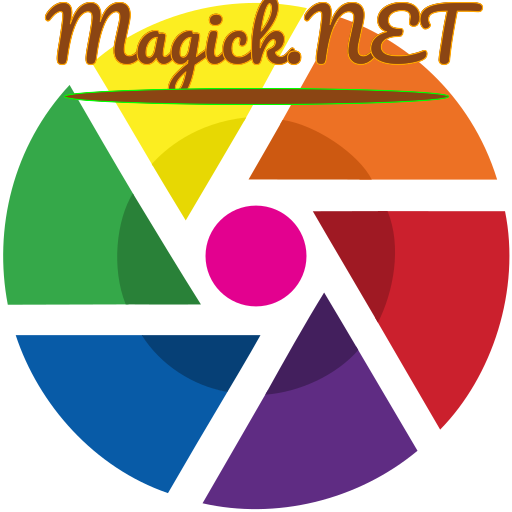
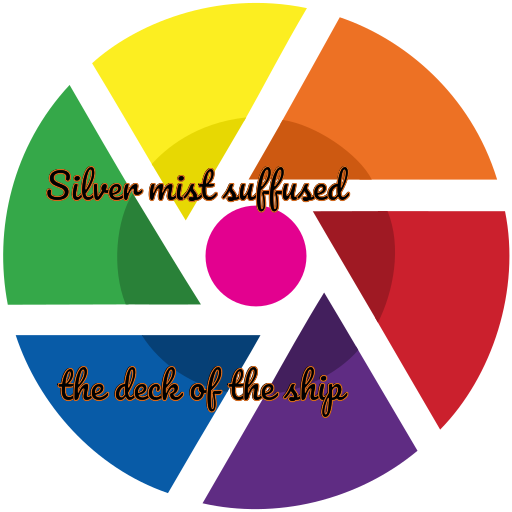
magick happens

Changed region(s): [[0.0938, 0.0, 0.9375, 0.2188], [0.0938, 0.3125, 0.6875, 0.4375], [0.0938, 0.7188, 0.6875, 0.8125]]

diff --git a/MagickNet.Sample/Controllers/PosterController.cs b/MagickNet.Sample/Controllers/PosterController.cs
@@ -1,0 +1,129 @@
+using System;
+using System.Collections.Generic;
+using System.IO;
+using System.Linq;
+using System.Threading.Tasks;
+using ImageMagick;
+using MagickNet.Sample.Models;
+using Microsoft.AspNetCore.Hosting;
+using Microsoft.AspNetCore.Mvc;
+
+// For more information on enabling MVC for empty projects, visit https://go.microsoft.com/fwlink/?LinkID=397860
+
+namespace MagickNet.Sample.Controllers {
+    public class PosterController : Controller {
+        string webrootPath;
+        string contentRootPath;
+        string imagePath;
+        // GET: /<controller>/
+        public PosterController(IHostingEnvironment hostingEnvironment)
+        {
+            webrootPath = hostingEnvironment.WebRootPath;
+            contentRootPath = hostingEnvironment.ContentRootPath;
+            imagePath = Path.Combine(webrootPath, "images");
+        }
+        public IActionResult Index()
+        {
+            PosterModel model;
+          
+                model = new PosterModel();
+                model.ImageSrc = "/images/large_Event_Poster_Pasta.png";
+          
+
+            return View(model);
+        }
+        [HttpPost]
+        public IActionResult Index(PosterModel model)
+        {
+            string originalImage = Path.Combine(webrootPath, "images", "large_Event_Poster_Pasta.png");
+            string newFilePath = Path.Combine(webrootPath, "images", "poster_with_data.png");
+            string font = Path.Combine(webrootPath, "fonts", "TGSharpSans-Medium.ttf");
+            string extraBoldFont = Path.Combine(webrootPath, "fonts", "TGSharpSans-Semibold.ttf");
+            string thinFont = Path.Combine(webrootPath, "fonts", "TGSharpSans-Thin.ttf");
+          
+            using (MagickImage image = new MagickImage(originalImage)) {
+                
+                // image.Draw(drawables);
+                var readSettings = new MagickReadSettings {
+                    FillColor = MagickColors.Black,
+                    BackgroundColor = MagickColors.Transparent,
+                   // TextGravity = Gravity.Center,
+                    Width = 400,                   
+                    StrokeColor = MagickColors.Black,
+                    Font = extraBoldFont,
+                    FontPointsize = 36,             
+
+                };
+                using (var caption = new MagickImage($"caption: {model.EventName.Replace('~','\n').ToUpper()}", readSettings)) {
+
+                    image.Composite(caption, 100, 500, CompositeOperator.Over);
+                }
+                readSettings.Font = font;
+                using (var caption = new MagickImage($"caption: {model.EventDate.Replace('~', '\n').ToUpper()}", readSettings)) {
+
+                    image.Composite(caption, 100, 600, CompositeOperator.Over);
+                }
+                readSettings.FontPointsize = 18;
+                using (var caption = new MagickImage($"caption: {model.Location.Replace('~', '\n').ToUpper()}", readSettings)) {
+
+                    image.Composite(caption, 100, 650, CompositeOperator.Over);
+                }
+
+                DrawableLine line = new DrawableLine(100, 700, 600, 700);
+                image.Draw(line);
+                readSettings.FontPointsize = 14;
+                readSettings.Width = 200;
+                readSettings.Font = thinFont;
+                using (var caption = new MagickImage($"caption: {model.Explanation}", readSettings)) {
+
+                    image.Composite(caption, 100, 725, CompositeOperator.Over);
+                }
+                using (var caption = new MagickImage($"caption: {model.AdditionalDetails}", readSettings)) {
+
+                    image.Composite(caption, 400, 725, CompositeOperator.Over);
+                }
+
+                //var eventNameDrawable = new Drawables()
+                //    .Font(@"H:\publicH\Downloads\TenderGreensSharpSans-Extrabold.woff2",FontStyleType.Bold,FontWeight.Bold, FontStretch.Normal)
+                //    .FontPointSize(72)
+
+                //    .StrokeColor(MagickColors.Black)
+                //    .Text(100,600, model.EventName.ToUpper())
+
+                //    .Draw(image);
+
+
+                //var drawable = new Drawables()
+                //    //.FontPointSize(72)
+                //    //.Font(extraBoldFont)
+                //    //.StrokeColor(MagickColors.Black)
+                //    //.TextAlignment(TextAlignment.Left)                    
+                //   // .Text(100, 600, model.EventName.ToUpper())
+                //     .FontPointSize(36)
+                //    .Font(font)
+                //    .StrokeColor(MagickColors.Black)
+                //    .TextAlignment(TextAlignment.Left)
+                //    .Text(100, 700, model.EventDate.ToUpper())
+                //    .Text(100, 800, model.Location.ToUpper())
+                //    //.StrokeColor(new MagickColor(0, Quantum.Max, 0))
+                //    //.FillColor(MagickColors.SaddleBrown)
+                //    //.Ellipse(256, 96, 192, 8, 0, 360)
+                //    .Draw(image);
+                image.Write(newFilePath);
+                model.ImageSrc = "/images/poster_with_data.png";
+                //ExifProfile profile = image.GetExifProfile();
+                //if (profile == null) {
+                //    ViewData["Message"] = "Image does not contain exif information";
+                //}
+                //else {
+                //    string message = "";
+                //    foreach (ExifValue value in profile.Values) {
+                //        message += $"{value.Tag} ({value.DataType}): {value.ToString()}<br />";
+                //    }
+                //}
+            }
+
+            return View(model);
+        }
+    }
+}

diff --git a/MagickNet.Sample/Controllers/HomeController.cs b/MagickNet.Sample/Controllers/HomeController.cs
@@ -1,4 +1,4 @@
-using System;
+using System;
 using System.Collections.Generic;
 using System.Diagnostics;
 using System.Linq;
@@ -35,14 +35,15 @@ namespace MagickNet.Sample.Controllers
             {
                 // image.Draw(drawables);
                 var drawable = new Drawables()
-                    .FontPointSize(72)
-                    .Font(@"D:\Downloads\Pacifico-Regular.ttf")
-                    .StrokeColor(MagickColors.Orange)
+                    .FontPointSize(36)
+                    .Font(@"H:\publicH\Downloads\Pacifico\Pacifico-Regular.ttf")
+                    .StrokeColor(MagickColors.Chocolate)
                     .TextAlignment(TextAlignment.Center)
-                    .Text(256, 64, "Magick.NET")
-                    .StrokeColor(new MagickColor(0, Quantum.Max, 0))
-                    .FillColor(MagickColors.SaddleBrown)
-                    .Ellipse(256, 96, 192, 8, 0, 360)
+                    .Text(200, 200, "Silver mist suffused ")
+                    .Text(200, 400, "the deck of the ship")
+                    //.StrokeColor(new MagickColor(0, Quantum.Max, 0))
+                    //.FillColor(MagickColors.SaddleBrown)
+                    //.Ellipse(256, 96, 192, 8, 0, 360)
                     .Draw(image);
                 image.Write(newFilePath);
                 ExifProfile profile = image.GetExifProfile();

diff --git a/MagickNet.Sample/Models/PosterModel.cs b/MagickNet.Sample/Models/PosterModel.cs
@@ -1,0 +1,26 @@
+using System;
+using System.Collections.Generic;
+using System.ComponentModel.DataAnnotations;
+using System.Linq;
+using System.Threading.Tasks;
+
+namespace MagickNet.Sample.Models
+{
+    public class PosterModel
+    {
+        [Required]
+        public string EventName { get; set; }
+        [Required]
+        public string EventDate { get; set; }
+        [Required]
+        public string Location { get; set; }
+        [Required]
+        [DataType(DataType.MultilineText)]
+        public string Explanation { get; set; }
+        [EmailAddress][Required]
+        public string RSVPEmail { get; set; }
+        [DataType(DataType.MultilineText)][Required]
+        public string AdditionalDetails { get; set; }
+        public string ImageSrc { get; set; }
+    }
+}
